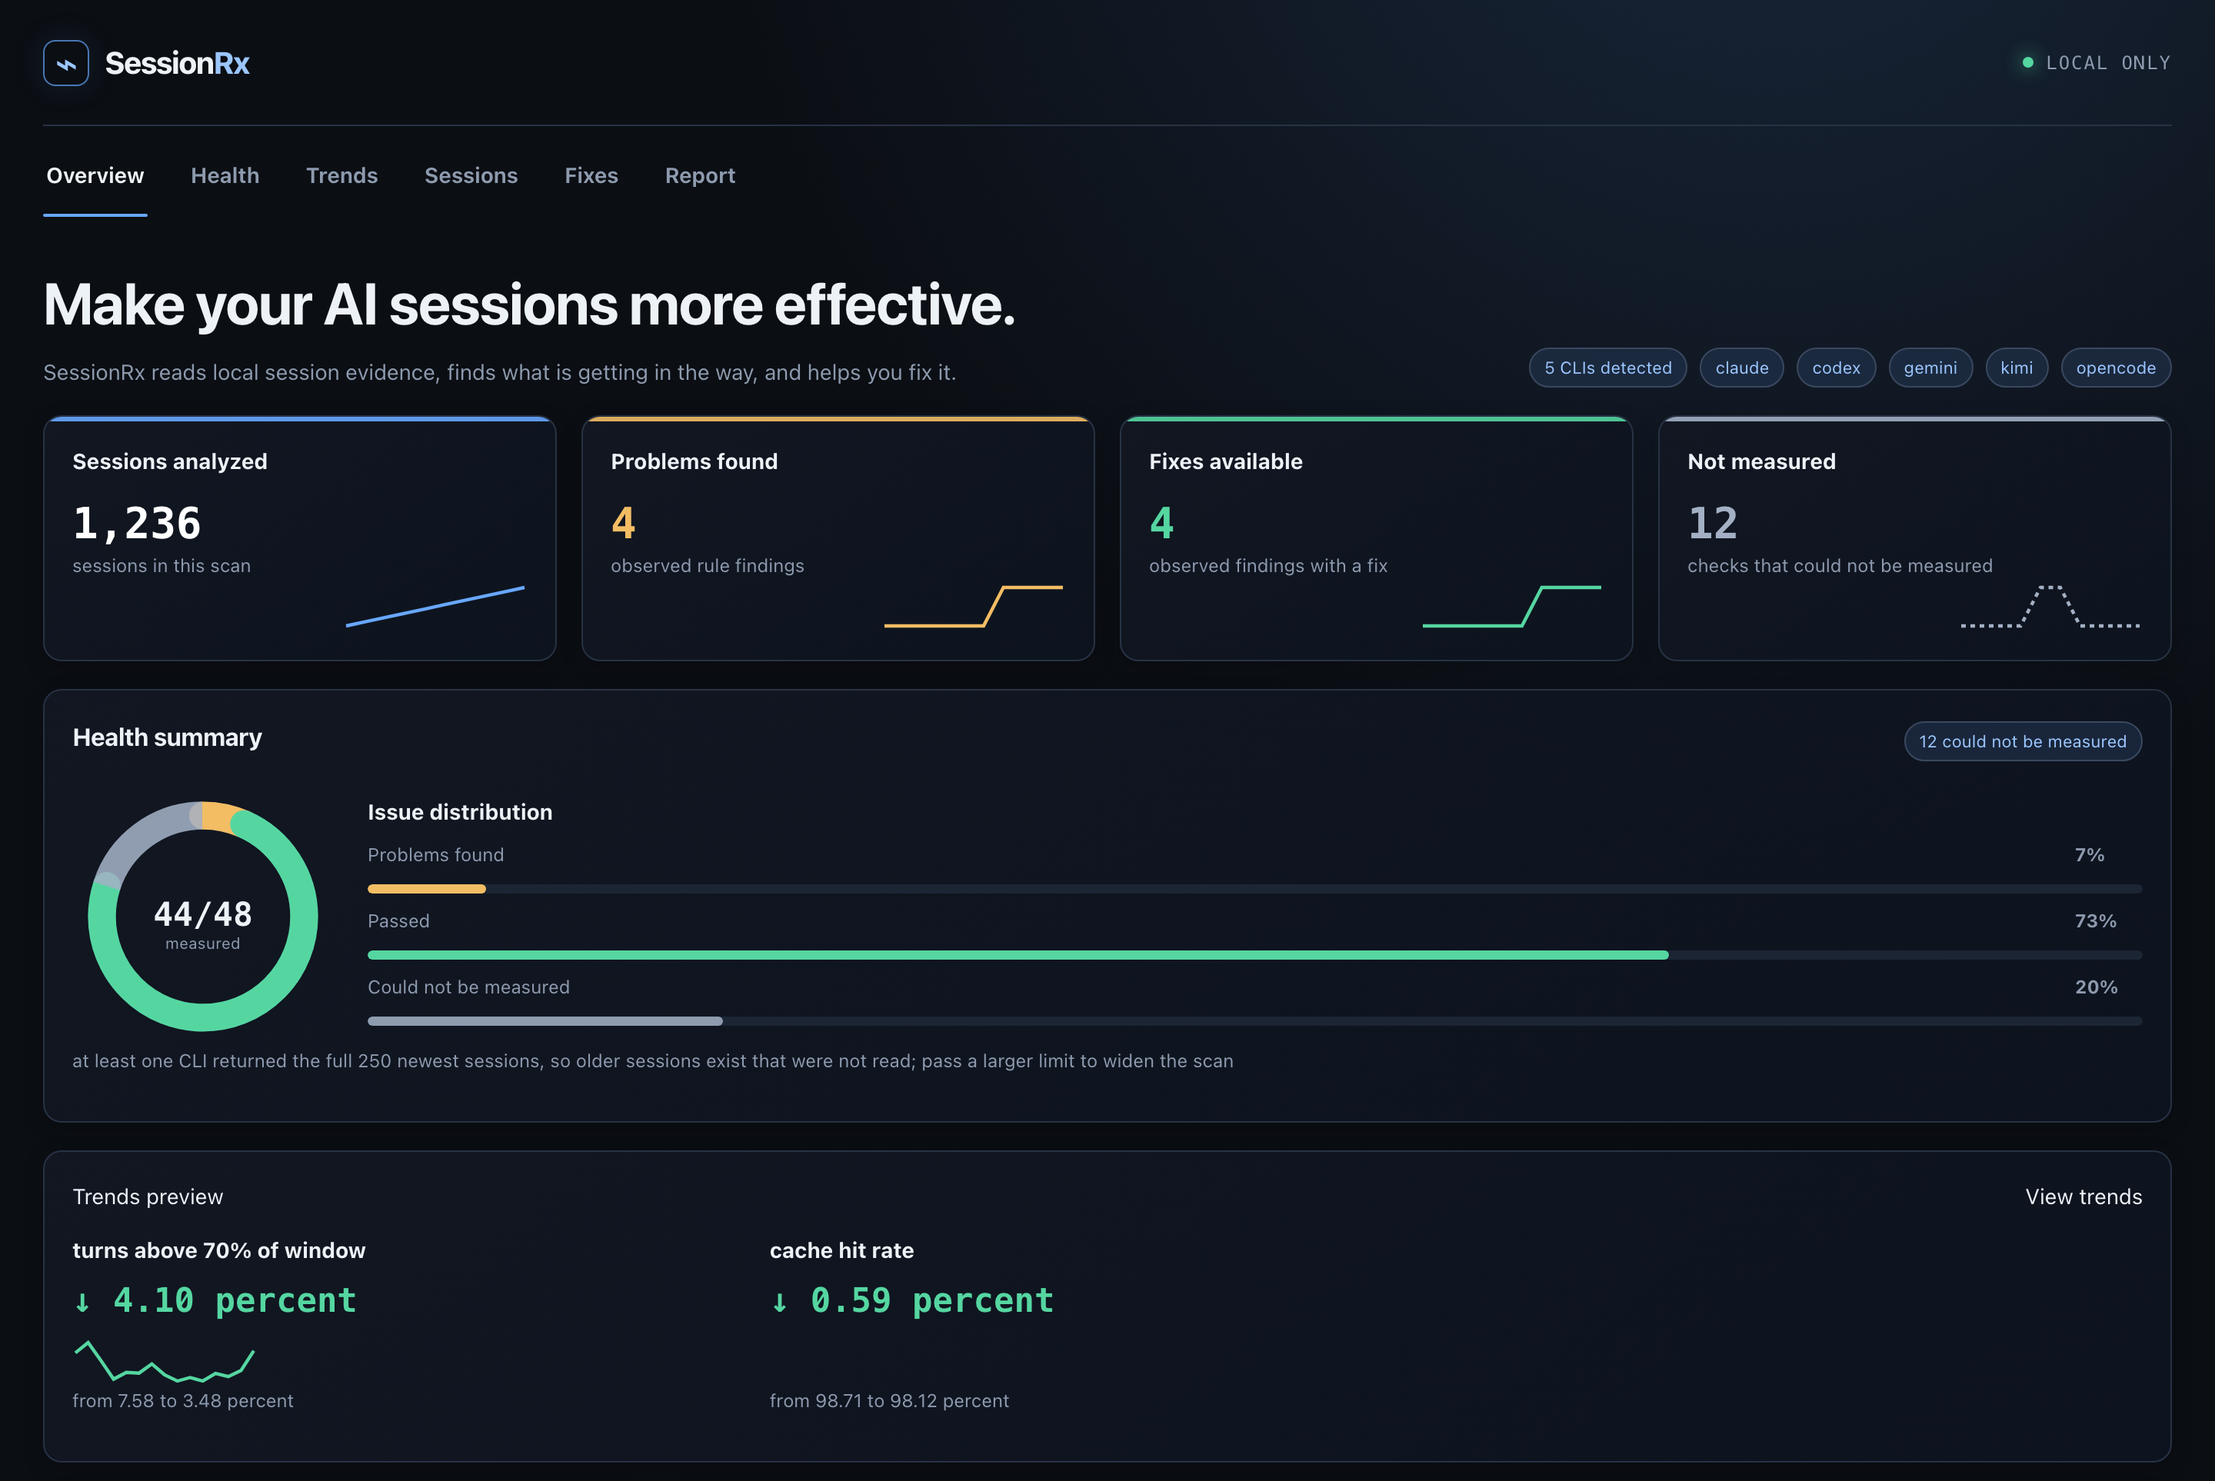
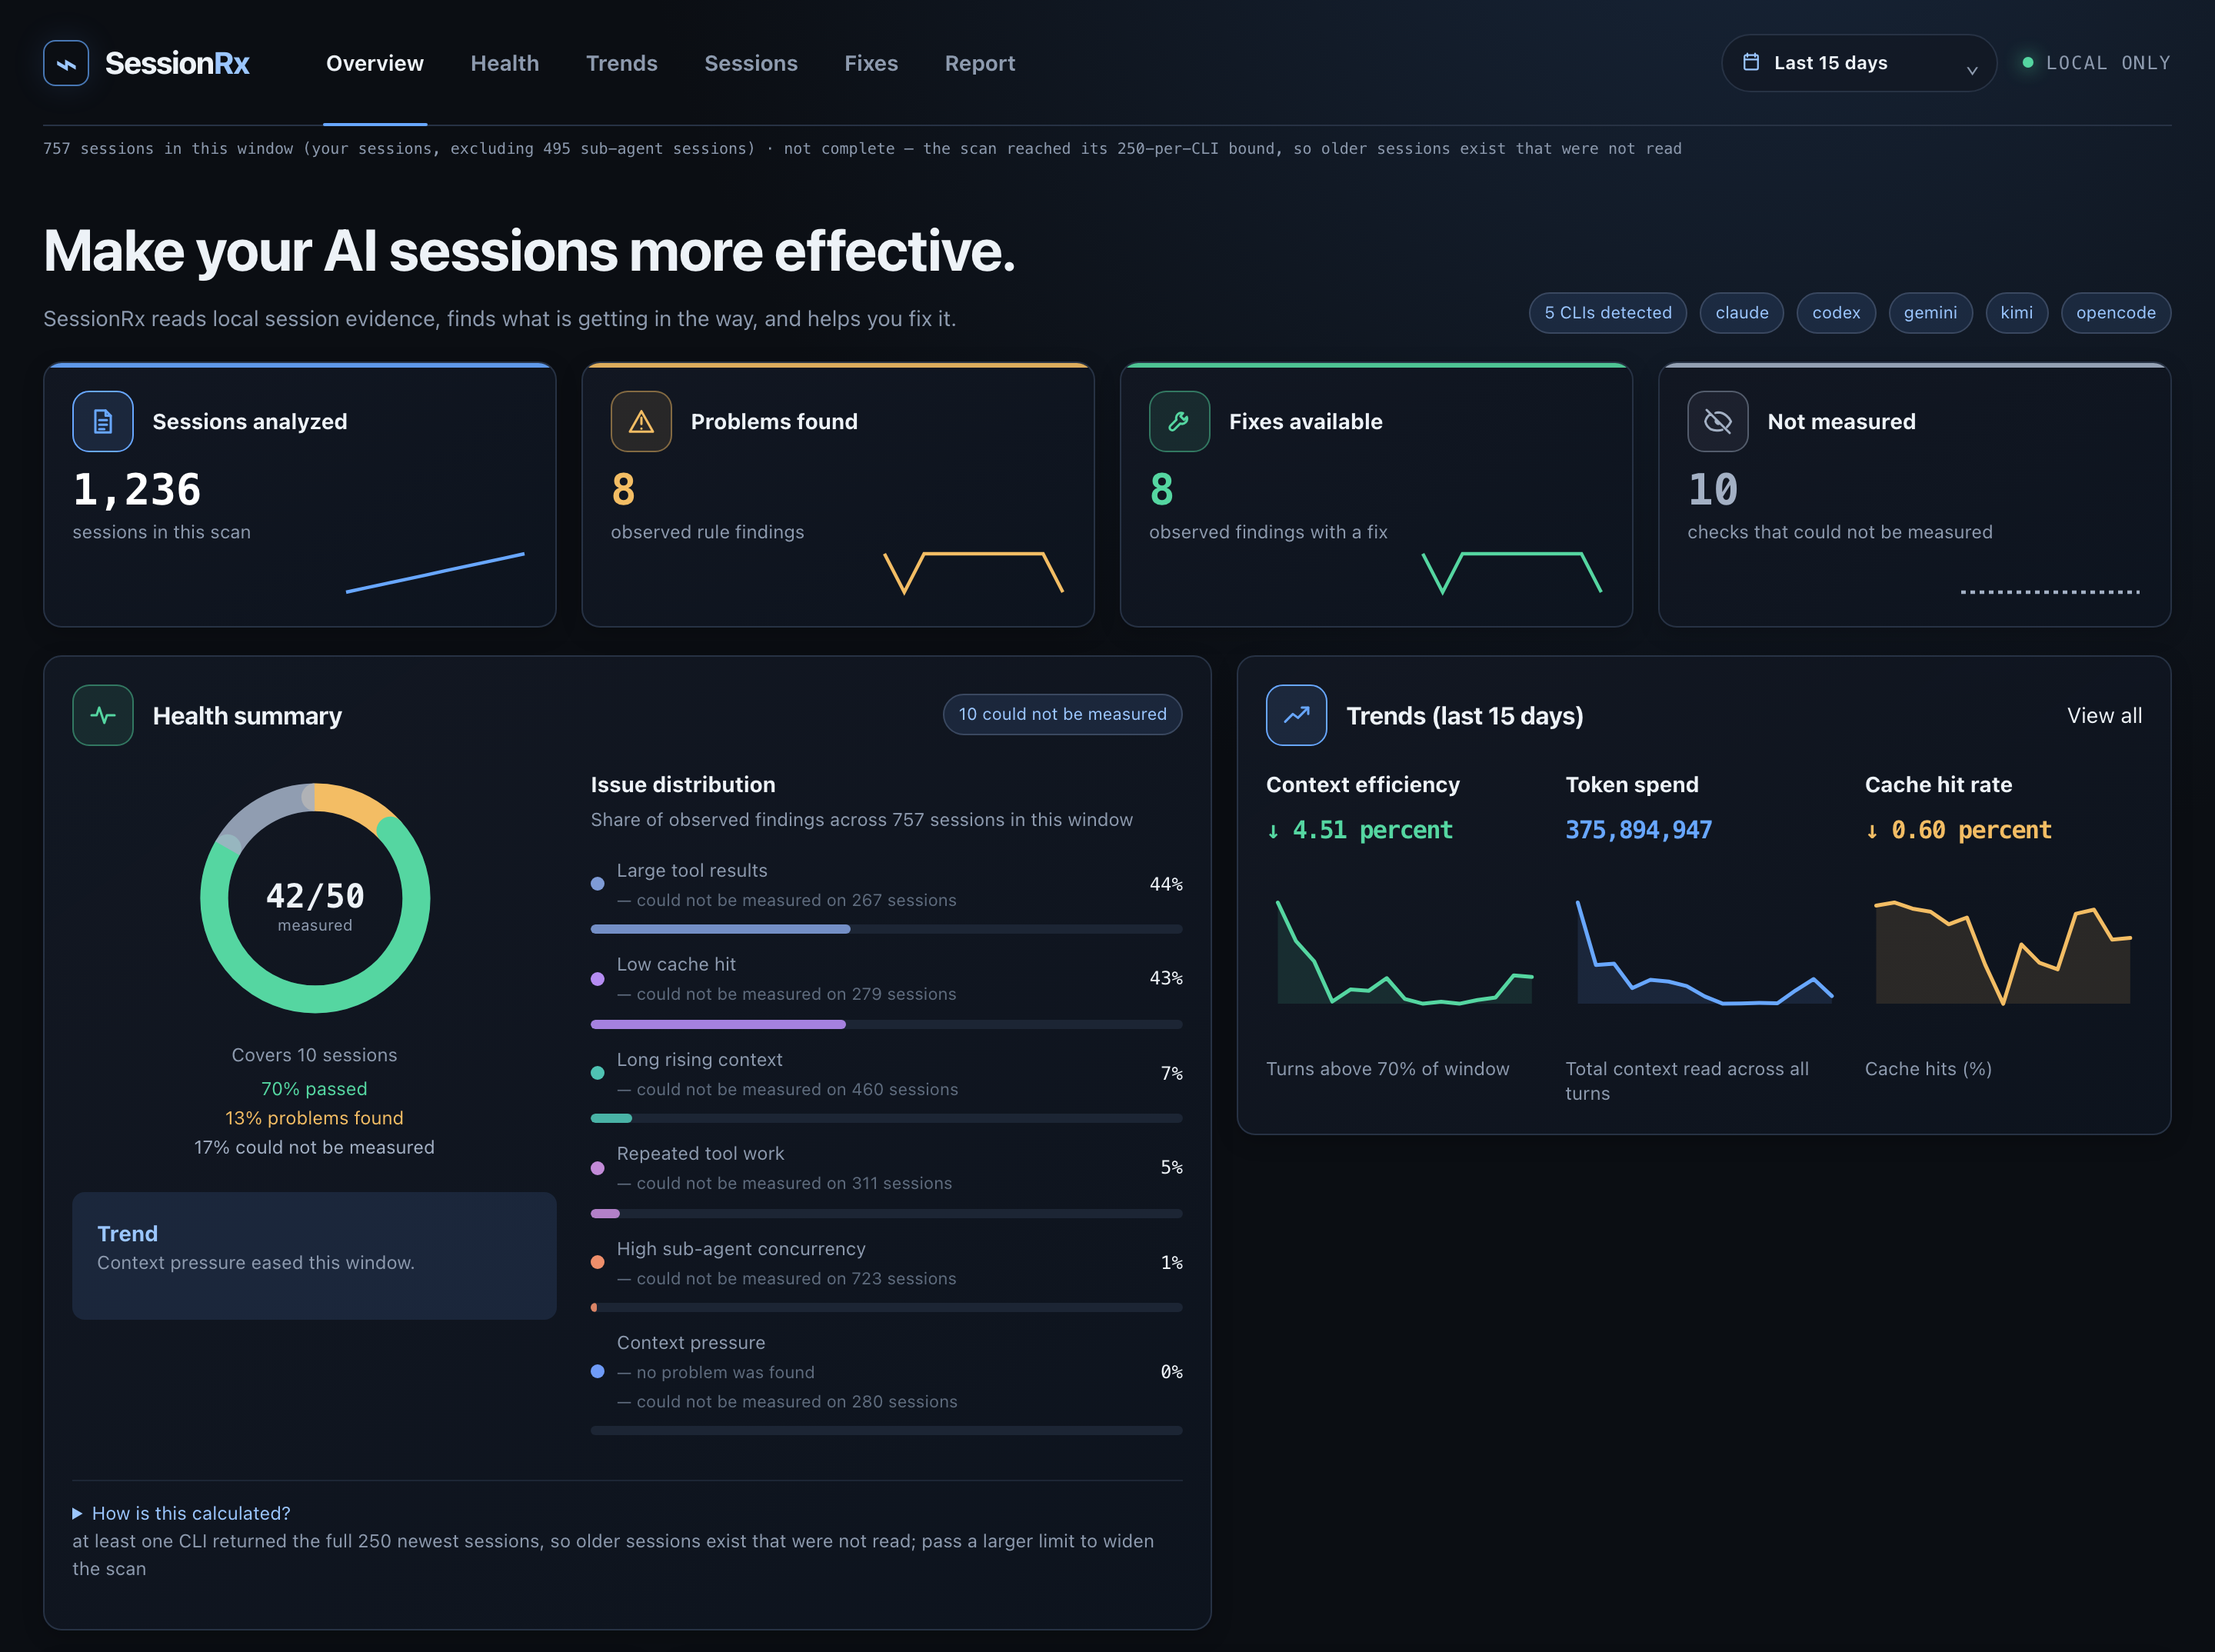
[session-rx] fix(ui,docs): the trend line moved under the donut, and a README hero three commits out of date
TWO EMPTY CORNERS, ONE OF THEM MINE

Putting Health summary and Trends on one row exposed a void inside the Health
card that the full-width layout had been hiding: the donut column is 256px, the
distribution column is 446px, and the gap between them was dead space.

The Trend callout was spanning the foot of the card at `grid-column: 1 / -1`.
It is the only element in that card short enough to sit in the donut column, and
a one-line trend statement reads naturally under a donut. Moved there:

    donut column     256 -> 360px   (void inside the card 190 -> 86px)
    Health summary   740 -> 635px
    right-hand void  427 -> 322px

The three `grid-column` declarations that positioned it — the base rule and its
two breakpoint overrides — are gone rather than left in place, since nothing
reads them once the element is not a grid child.

WHAT THIS DOES NOT FIX, STATED PLAINLY

322px of empty space remains below the Trends card. It is a consequence of
`align-items: start`, which is deliberate: the alternative is a forced equal
height, and two earlier attempts to fill that forced height — spreading the
card's children apart, then growing the charts to 567px — each made the page
worse than the gap did. Closing the rest is a question of what else belongs in
that column, not a sizing tweak, so it is left visible rather than papered over.

A HERO SCREENSHOT FROM BEFORE THE REDESIGN

`docs/assets/screenshot-overview.png` was captured at 61d637d and three UI
[…]

diff --git a/public/css/style.css b/public/css/style.css
@@ -216,12 +216,12 @@ a { color: inherit; text-decoration: none; }
 @media (max-width: 700px) { .range-picker-wrap { order: 2; margin-left: auto; }.topbar-meta { order: 2; margin-left: 0; } }
 .legacy-toolbar { display: none !important; }
 .session-layout:not(:has(.detail-panel)) > .card { grid-column: 2 / -1; }
-.health-grid { display: grid; grid-template-columns: minmax(150px, .9fr) minmax(0, 1.1fr); gap: 22px; align-items: start; }.donut-column { text-align: center; }.donut-column .donut { display: block; margin: 0 auto; }.donut-coverage, .health-states, .distribution-note, .trend-summary, .trend-unknown { color: var(--muted); font-size: 12px; }.donut-coverage { margin: 8px 0 4px; }.health-states { display: grid; gap: 2px; line-height: 1.45; margin: 0; text-wrap: balance; }.health-states > span { display: block; white-space: nowrap; }.state-pass { color: var(--pass); }.state-observed { color: var(--warn); }.state-unknown { color: var(--unknown); }.trend-window-unknown { margin: 0; color: var(--muted); font-size: 12px; }.distribution-column h3, .trend-callout h3 { margin: 0; }.distribution-note { margin: 4px 0 15px; }.distribution-row { display: grid; grid-template-columns: minmax(0, 1fr) 42px; gap: 8px 10px; align-items: center; margin: 11px 0; color: var(--muted); font-size: 12px; }.distribution-label { display: flex; align-items: center; gap: 8px; min-width: 0; }.distribution-label span:last-child { overflow-wrap: anywhere; }.distribution-row > strong { color: var(--text); font: 12px var(--mono); text-align: right; }.distribution-row .bar-track { grid-column: 1 / -1; }.distribution-dot { width: 9px; height: 9px; flex: 0 0 9px; border-radius: 50%; background: var(--distribution-color); }.distribution-fill { background: var(--distribution-color); opacity: .9; }.trend-callout { grid-column: 1 / -1; border: 1px solid var(--accent-line); border-radius: var(--radius-sm); background: var(--accent-dim); padding: 16px; }.trend-callout h3 { color: var(--accent-strong); }.trend-callout p { line-height: 1.55; }.calculation-details { margin-top: 18px; border-top: 1px solid var(--border-faint); padding-top: 12px; color: var(--muted); font-size: 12px; }.calculation-details summary { color: var(--accent-strong); cursor: pointer; }.calculation-details p { line-height: 1.55; max-width: 780px; }.trend-chart { display: block; width: 100%; height: 92px; margin: 8px 0; overflow: visible; }.trend-chart polyline { stroke: var(--accent); stroke-width: 2.5; stroke-linecap: round; stroke-linejoin: round; }.trend-chart .trend-area { fill: var(--accent); opacity: .12; }.trend-card.tone-pass .trend-chart polyline { stroke: var(--pass); }.trend-card.tone-pass .trend-chart .trend-area { fill: var(--pass); }.trend-card.tone-warn .trend-chart polyline { stroke: var(--warn); }.trend-card.tone-warn .trend-chart .trend-area { fill: var(--warn); }.trend-card.tone-accent .trend-chart polyline { stroke: var(--accent); }.trend-card.tone-accent .trend-chart .trend-area { fill: var(--accent); }.trend-card { min-width: 0; }.trend-card .trend-note { margin-bottom: 0; }
+.health-grid { display: grid; grid-template-columns: minmax(150px, .9fr) minmax(0, 1.1fr); gap: 22px; align-items: start; }.donut-column { text-align: center; }.donut-column .donut { display: block; margin: 0 auto; }.donut-coverage, .health-states, .distribution-note, .trend-summary, .trend-unknown { color: var(--muted); font-size: 12px; }.donut-coverage { margin: 8px 0 4px; }.health-states { display: grid; gap: 2px; line-height: 1.45; margin: 0; text-wrap: balance; }.health-states > span { display: block; white-space: nowrap; }.state-pass { color: var(--pass); }.state-observed { color: var(--warn); }.state-unknown { color: var(--unknown); }.trend-window-unknown { margin: 0; color: var(--muted); font-size: 12px; }.distribution-column h3, .trend-callout h3 { margin: 0; }.distribution-note { margin: 4px 0 15px; }.distribution-row { display: grid; grid-template-columns: minmax(0, 1fr) 42px; gap: 8px 10px; align-items: center; margin: 11px 0; color: var(--muted); font-size: 12px; }.distribution-label { display: flex; align-items: center; gap: 8px; min-width: 0; }.distribution-label span:last-child { overflow-wrap: anywhere; }.distribution-row > strong { color: var(--text); font: 12px var(--mono); text-align: right; }.distribution-row .bar-track { grid-column: 1 / -1; }.distribution-dot { width: 9px; height: 9px; flex: 0 0 9px; border-radius: 50%; background: var(--distribution-color); }.distribution-fill { background: var(--distribution-color); opacity: .9; }.trend-callout { margin-top: 20px; text-align: left; border: 1px solid var(--accent-line); border-radius: var(--radius-sm); background: var(--accent-dim); padding: 16px; }.trend-callout h3 { color: var(--accent-strong); }.trend-callout p { line-height: 1.55; }.calculation-details { margin-top: 18px; border-top: 1px solid var(--border-faint); padding-top: 12px; color: var(--muted); font-size: 12px; }.calculation-details summary { color: var(--accent-strong); cursor: pointer; }.calculation-details p { line-height: 1.55; max-width: 780px; }.trend-chart { display: block; width: 100%; height: 92px; margin: 8px 0; overflow: visible; }.trend-chart polyline { stroke: var(--accent); stroke-width: 2.5; stroke-linecap: round; stroke-linejoin: round; }.trend-chart .trend-area { fill: var(--accent); opacity: .12; }.trend-card.tone-pass .trend-chart polyline { stroke: var(--pass); }.trend-card.tone-pass .trend-chart .trend-area { fill: var(--pass); }.trend-card.tone-warn .trend-chart polyline { stroke: var(--warn); }.trend-card.tone-warn .trend-chart .trend-area { fill: var(--warn); }.trend-card.tone-accent .trend-chart polyline { stroke: var(--accent); }.trend-card.tone-accent .trend-chart .trend-area { fill: var(--accent); }.trend-card { min-width: 0; }.trend-card .trend-note { margin-bottom: 0; }
 .overview-health-row { grid-template-columns: minmax(0, 1.25fr) minmax(0, 1fr); align-items: start; }.overview-health-row > .rx-card { min-width: 0; }.distribution-status { display: block; color: var(--subtle); font-size: 11px; margin-top: 2px; }.distribution-dot, .distribution-fill { /* Findings are observations, not verdicts: exclude pass-green, warn-amber, and unknown-grey. */ background: var(--distribution-color); }
 .trend-chart { height: 120px; }
-@media (max-width: 1100px) { .health-grid { grid-template-columns: minmax(150px, .8fr) minmax(220px, 1.2fr); }.trend-callout { grid-column: 1 / -1; } }
+@media (max-width: 1100px) { .health-grid { grid-template-columns: minmax(150px, .8fr) minmax(220px, 1.2fr); } }
 @media (max-width: 1100px) { .overview-health-row { grid-template-columns: 1fr; } }
-@media (max-width: 700px) { .health-grid { grid-template-columns: 1fr; }.trend-callout { grid-column: auto; } }
+@media (max-width: 700px) { .health-grid { grid-template-columns: 1fr; } }
 
 /* ---------------------------------------------------------------- cards */
 

diff --git a/public/js/pages/overview.js b/public/js/pages/overview.js
@@ -75,7 +75,9 @@ function donut(health, trends) {
   if (!distribution.observedTotal) distributionColumn.append(el('p', 'not-measured', 'No observed findings were found in this window.'));
   else distribution.items.forEach((item, index) => { const observed = Number.isFinite(item.observed) ? item.observed : 0; const unknownForRule = Number.isFinite(item.unknown) ? item.unknown : null; const row = el('div', 'distribution-row'); row.style.setProperty('--distribution-color', distributionColor(item.id)); const label = el('div', 'distribution-label'); const dot = el('span', 'distribution-dot'); dot.setAttribute('aria-hidden', 'true'); const copy = el('span'); copy.append(el('span', '', item.name || item.id)); if (observed === 0) copy.append(el('span', 'distribution-status', ' — no problem was found')); if (unknownForRule !== null && unknownForRule > 0) copy.append(el('span', 'distribution-status', ` — could not be measured on ${unknownForRule.toLocaleString('en-US')} ${unknownForRule === 1 ? 'session' : 'sessions'}`)); label.append(dot, copy); row.append(label, el('strong', '', `${distribution.percentages[index]}%`)); const trackBar = el('div', 'bar-track'); const fill = el('div', 'bar-fill distribution-fill'); fill.style.width = `${distribution.percentages[index]}%`; trackBar.append(fill); row.append(trackBar); distributionColumn.append(row); });
   const callout = el('aside', 'trend-callout'); callout.append(el('h3', '', 'Trend')); if (trends?.trend?.direction === 'unknown') callout.append(el('p', 'trend-unknown', 'The trend could not be determined for this window.')); if (trends?.trend?.summary) callout.append(el('p', 'trend-summary', trends.trend.summary)); else callout.append(el('p', 'trend-summary', 'The trend could not be determined for this window.'));
-  wrap.append(donutColumn, distributionColumn, callout); return wrap;
+  // The callout sits under the donut rather than across the foot of the card: the donut column is the shorter of the two,
+  // and a one-line trend statement is the only thing in this card short enough to belong there.
+  donutColumn.append(callout); wrap.append(donutColumn, distributionColumn); return wrap;
 }
 
 function lineChart(items, valueKey, tone) {

diff --git a/README.md b/README.md
@@ -30,7 +30,7 @@ checks against each recent session, and offers a local fix for the ones that
 fail. The six checks are context pressure, cache hit rate, repeated tool work,
 large tool results, long rising context, and sub-agent concurrency.
 
-![Overview showing detected CLIs, summary cards with sessions analyzed and problems found, checks that could not be measured, and health donut displaying the three verdict states — problems found, passed, not measured](https://raw.githubusercontent.com/ai-meharbnsingh/session-rx/main/docs/assets/screenshot-overview.png)
+![Overview showing a Last 15 days range selector, a line stating how many sessions the window holds and that the scan was not complete, summary cards for sessions analyzed, problems found, fixes available and checks that could not be measured, and a Health summary beside Trends — the donut showing passed, problems found and could not be measured, and an issue distribution listing every check with the number of sessions it could not be measured on](https://raw.githubusercontent.com/ai-meharbnsingh/session-rx/main/docs/assets/screenshot-overview.png)
 
 ### Every check returns one of three answers
 
